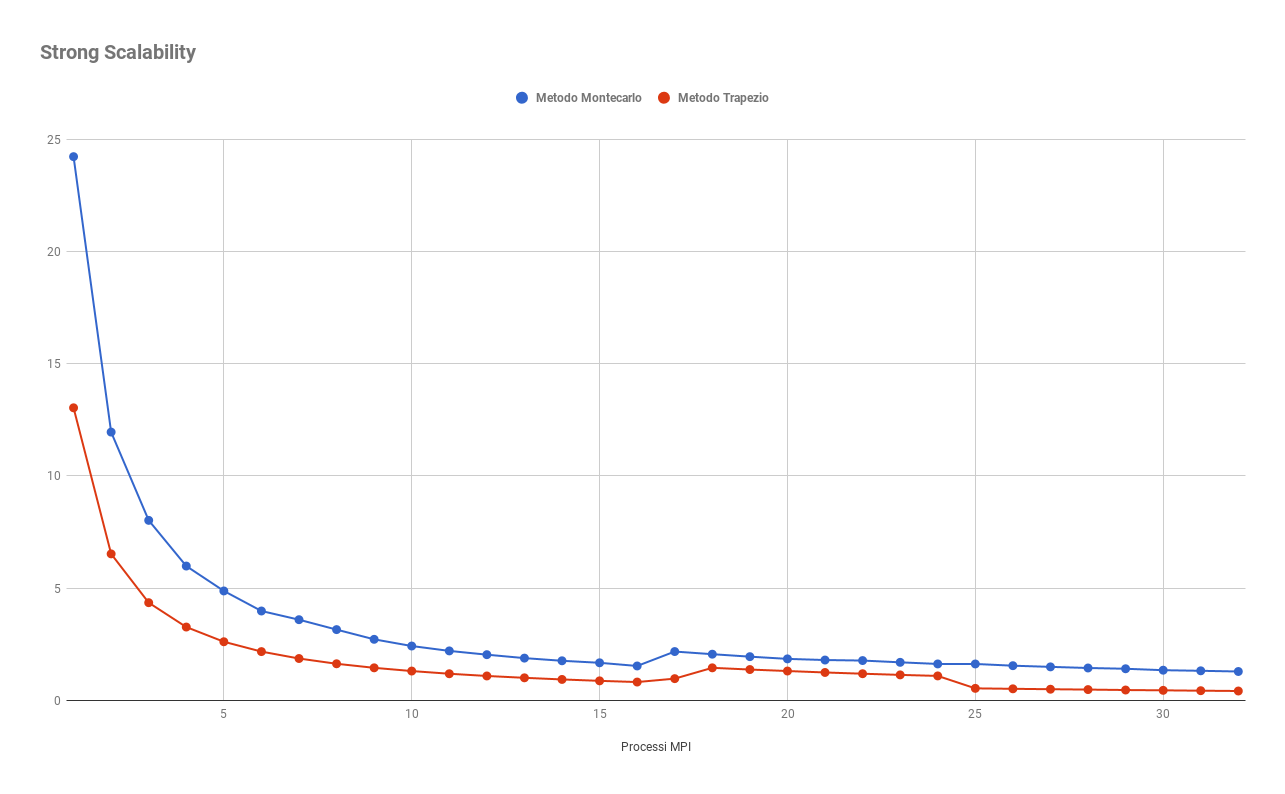
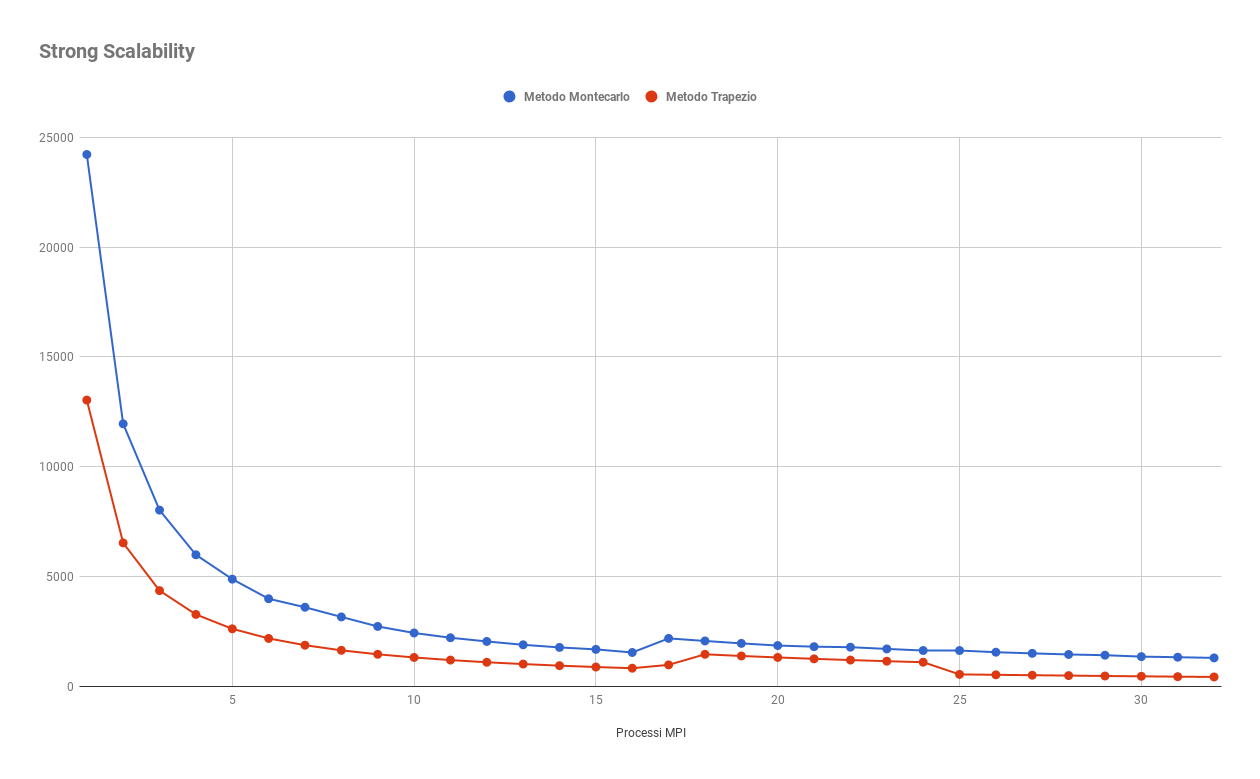
Modifiche

diff --git a/ProgettoPCPC/README.md b/ProgettoPCPC/README.md
@@ -51,15 +51,17 @@ Infatti all' interno di ogni iterazione, un processo MPI :
 
 #### Strong scalability
 
-![](/home/giovanni/Desktop/GitFolder/ProgettoPCPC/Immagini/Strong.png)
+![](../ProgettoPCPC/Immagini/Strong.png)
 
-Sull'asse delle y abbiamo il tempo in secondi, mentre sull'asse delle x abbiamo il numero di processi MPI. I test sono stati soddisfacenti, mostrando una grande scalabilità del codice. Infatti il tempo di esecuzione è passato da circa 24 secondi utilizzando un solo processo mpi fino ad arrivare a circa 1 secondi con 32 processi mpi per il metodo di montecarlo. Invece per il metodo del trapezio il tempo di esecuzione è passato da circa 13  secondi utilizzando un solo processo mpi fino ad arrivare a circa 0,41 secondi con 32 processi mpi per il metodo di montecarlo. Il tutto sul di un numero di iterazioni pari ad 10000000000.
+Sull'asse delle y abbiamo il tempo in millisecondi, mentre sull'asse delle x abbiamo il numero di processi MPI. I test sono stati soddisfacenti, mostrando una grande scalabilità del codice. Infatti il tempo di esecuzione è passato da circa 24222 millisecondi utilizzando un solo processo mpi fino ad arrivare a circa 1285 millisecondi con 32 processi mpi per il metodo di montecarlo. Invece per il metodo del trapezio il tempo di esecuzione è passato da circa 13033  millisecondi utilizzando un solo processo mpi fino ad arrivare a circa 416 millisecondi con 32 processi mpi. Il tutto sul di un numero di iterazioni pari ad 10000000000.
 
 #### Weak scalability
 
-![](/home/giovanni/Desktop/GitFolder/ProgettoPCPC/Immagini/weack.png)
+![](../ProgettoPCPC/Immagini/Weak.png)
 
-Sull'asse delle y abbiamo il tempo in secondi, mentre sull' asse delle x abbiamo il numero di processi mpi. In questo tipo di test ci aspettiamo una linea orizzontale, assicurandoci che aumentando la taglia dell' input e il numero di processi mpi, in modo tale che il rapporto tra i due sia costante, il tempo del programma rimane invariato. Utilizzando lo scambio di messaggi previsti da mpi, ovviamente, il tempo non può essere costante perché spendiamo tempo per scambiare dati tra i processi.
+Sull'asse delle y abbiamo il tempo in millisecondi, mentre sull' asse delle x abbiamo il numero di processi mpi. In questo tipo di test ci aspettiamo una linea orizzontale, assicurandoci che aumentando la taglia dell' input e il numero di processi mpi, in modo tale che il rapporto tra i due sia costante, il tempo del programma rimane invariato. Utilizzando lo scambio di messaggi previsti da mpi, ovviamente, il tempo non può essere costante perché spendiamo tempo per scambiare dati tra i processi. In tale test il numero di iterazioni iniziali N è 10000000 e tale numero viene aumentato in relazione al numero di processi utilizzati seguendo questa formula **np*N** dove **np** è il numero di processi.
+
+
 
 ### **Compilazione**
 
@@ -98,6 +100,6 @@ Invence se lo si vuole lanciare in locale:
   - Se il valore è 7 allora il numero di iterazioni per il metodo del trapezio e montecarlosaranno 100000000 iterazioni.
   - Se il valore è 8 allora il numero di iterazioni per il metodo del trapezio e montecarlo saranno 1000000000 iterazioni.
   - Se non viene specificato nessun valore fra quelli sopra elencati allora il numero di iterazioni per il metodo del trapezio e montecarlo saranno 10000000 iterazioni, ignora il fattore moltiplicativo a differenza di quelli sopra elencati.
-- **z**: Indica un fattore moltiplicaticativo per la taglia dell'input **utilizzato solo al fine dei test su amazon** esso assume valore da 1 a 4, inoltre non sono stati effuttuati controlli sull'input poichè utilizzata solo a questo fine. **Si consiglia di lanciale il progamma in locale con tale parametro settato ad 1 poichè gli altri valori sono serviti solo ed esclusivamente per i test su amazon**.
+- **z**: Indica un fattore moltiplicaticativo per la taglia dell'input **utilizzato solo al fine dei test su amazon**  inoltre non sono stati effuttuati controlli sull'input poichè utilizzata solo a questo fine. **Si consiglia di lanciale il progamma in locale con tale parametro settato ad 1 poichè gli altri valori sono serviti solo ed esclusivamente per i test su amazon**.
 
 Nel comando per lanciare il programma su aws è stato specificato `IPSlaves` poichè dobbiamo inserire gli ip locali relativi alle 7 macchine slave.
